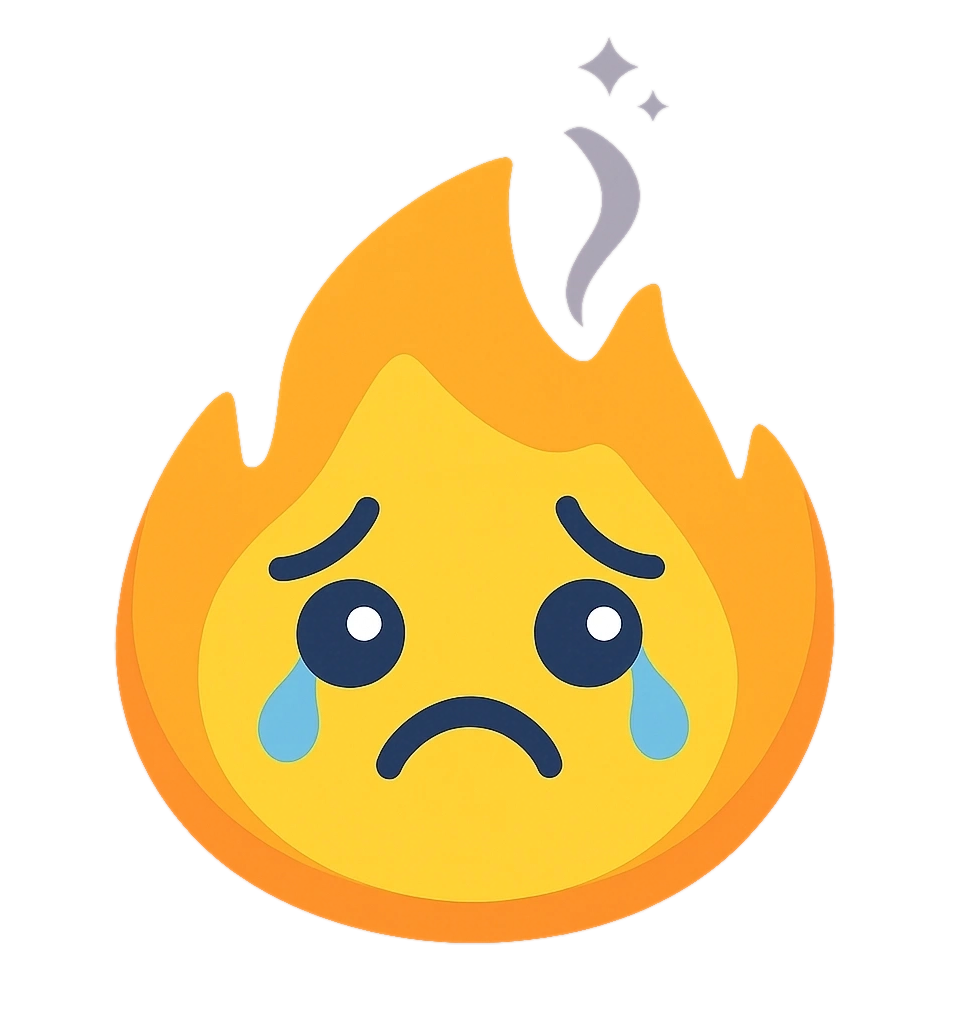
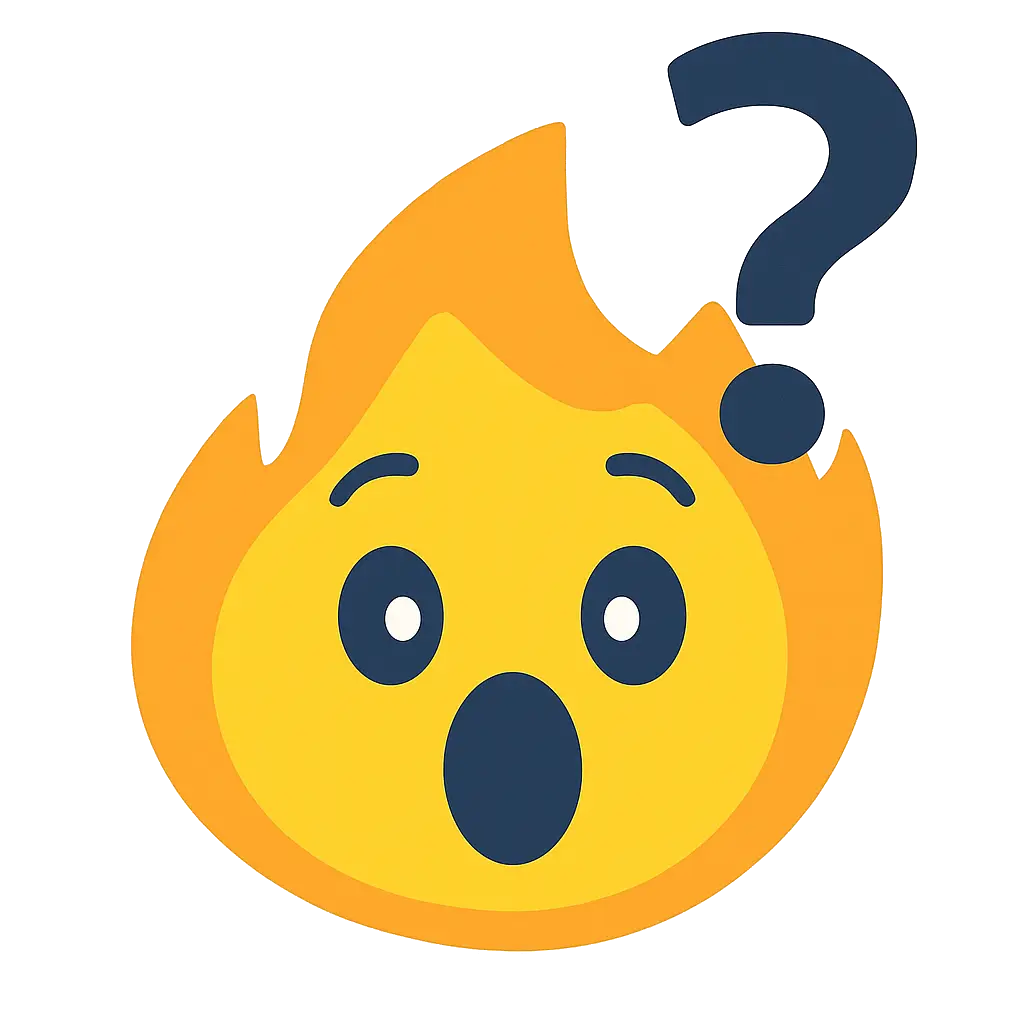
change_NotFound-IMG

diff --git a/src/app/not-found.js b/src/app/not-found.js
@@ -18,7 +18,7 @@ export default function NotFound() {
       />
 
       {/* 텍스트 */}
-      <h1 className="text-4xl font-extrabold text-blue-600">미안해요.. ㅠㅠ</h1>
+      <h1 className="text-4xl font-extrabold text-blue-600">어디찾아요.. ??</h1>
       <h2 className="text-2xl font-bold mt-3 text-gray-800 dark:text-gray-200">
         페이지를 찾을 수 없습니다 (404)
       </h2>
